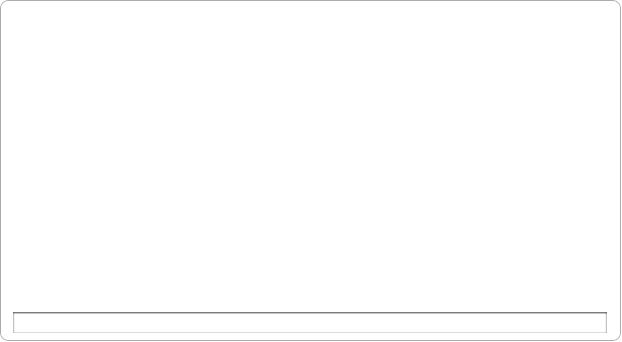
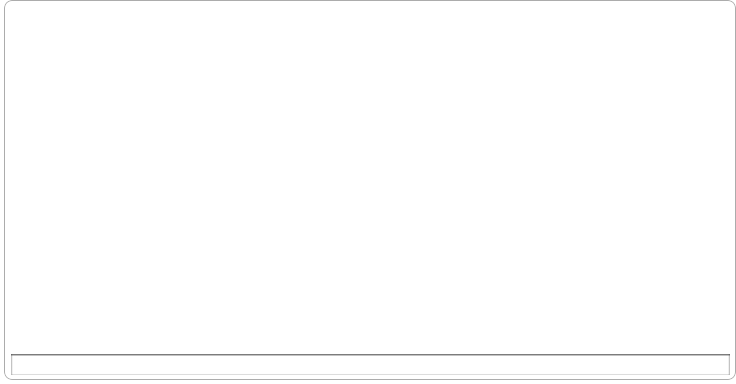
adjust size: make it bigger

Changed region(s): [[0.0, 0.0, 1.0, 1.0]]

diff --git a/wsh.dcproj/project/widget.wdgt/main.css b/wsh.dcproj/project/widget.wdgt/main.css
@@ -64,9 +64,9 @@ body {
     color: black;
     font-family: HelveticaNeue;
     font-size: 10pt;
-    top: 309px;
-    left: 12px;
-    width: 588px;
+    top: 351px;
+    left: 6px;
+    width: 713px;
 }
 
 #box {
@@ -81,8 +81,8 @@ body {
     margin-top: 0px;
     right: 0px;
     bottom: 340px;
-    width: 619px;
-    height: 339px;
+    width: 730px;
+    height: 378px;
+    left: 4px;
     top: 0px;
-    left: 0px;
 }
